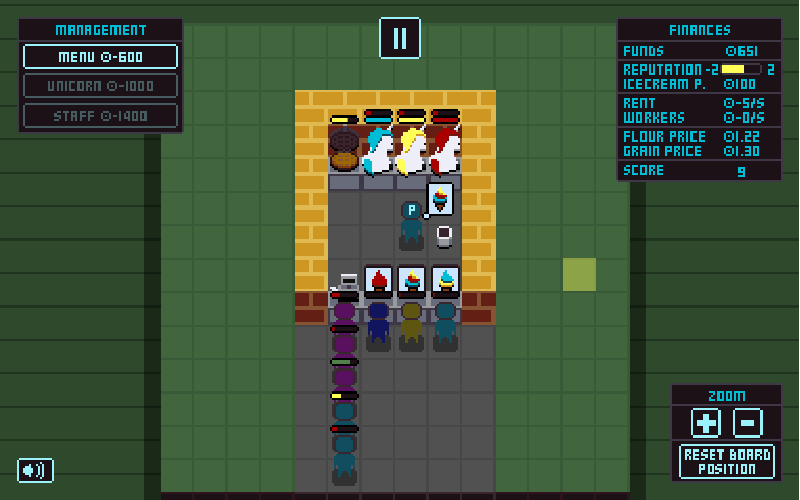
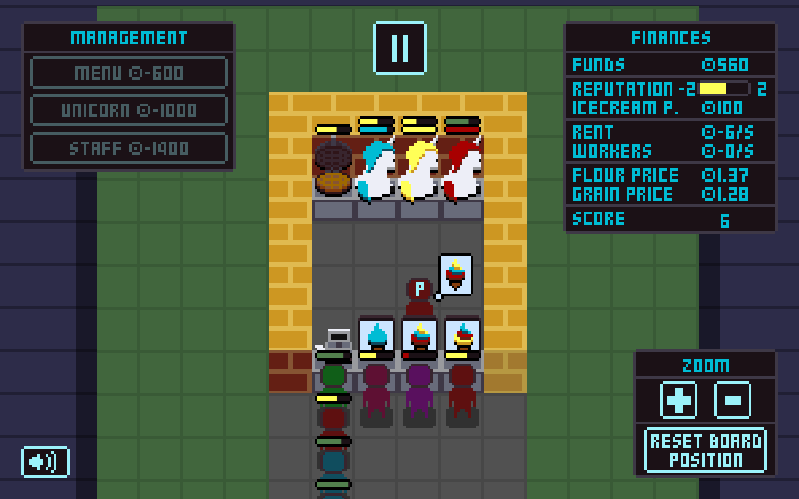
changed the background color to purple

diff --git a/src/entities/board.js b/src/entities/board.js
@@ -50,10 +50,10 @@ export class Board {
 
     createBackground() {
         this.backgroundCanvas = createElem(this.gameDiv, "canvas", "board-background", null,
-            toBoardPixelSize(GameVars.gameWdAsPixels), toBoardPixelSize(GameVars.gameHgAsPixels), "#2f492c");
+            toBoardPixelSize(GameVars.gameWdAsPixels), toBoardPixelSize(GameVars.gameHgAsPixels), "#2d2c49");
         const lines = [];
         for (let i = 0; i < GameVars.gameHgAsPixels / 12; i++) {
-            createPixelLine(0, 16 * i + 2, GameVars.gameWdAsPixels, 16 * i + 2, "#21341f", toBoardPixelSize(1), lines);
+            createPixelLine(0, 16 * i + 2, GameVars.gameWdAsPixels, 16 * i + 2, "#201f34", toBoardPixelSize(1), lines);
         }
         const ctx = this.backgroundCanvas.getContext("2d");
         lines.forEach(line => line.draw(ctx));
@@ -168,7 +168,7 @@ export class Board {
         const ctx = this.backgroundCanvas.getContext("2d");
         const lines = [];
         for (let i = 0; i < GameVars.gameHgAsPixels / 12; i++) {
-            createPixelLine(0, 16 * i + 2, GameVars.gameWdAsPixels, 16 * i + 2, "#21341f", toBoardPixelSize(1), lines);
+            createPixelLine(0, 16 * i + 2, GameVars.gameWdAsPixels, 16 * i + 2, "#201f34", toBoardPixelSize(1), lines);
         }
         lines.forEach(line => line.draw(ctx));
         this.drawGameBoardShadow();
